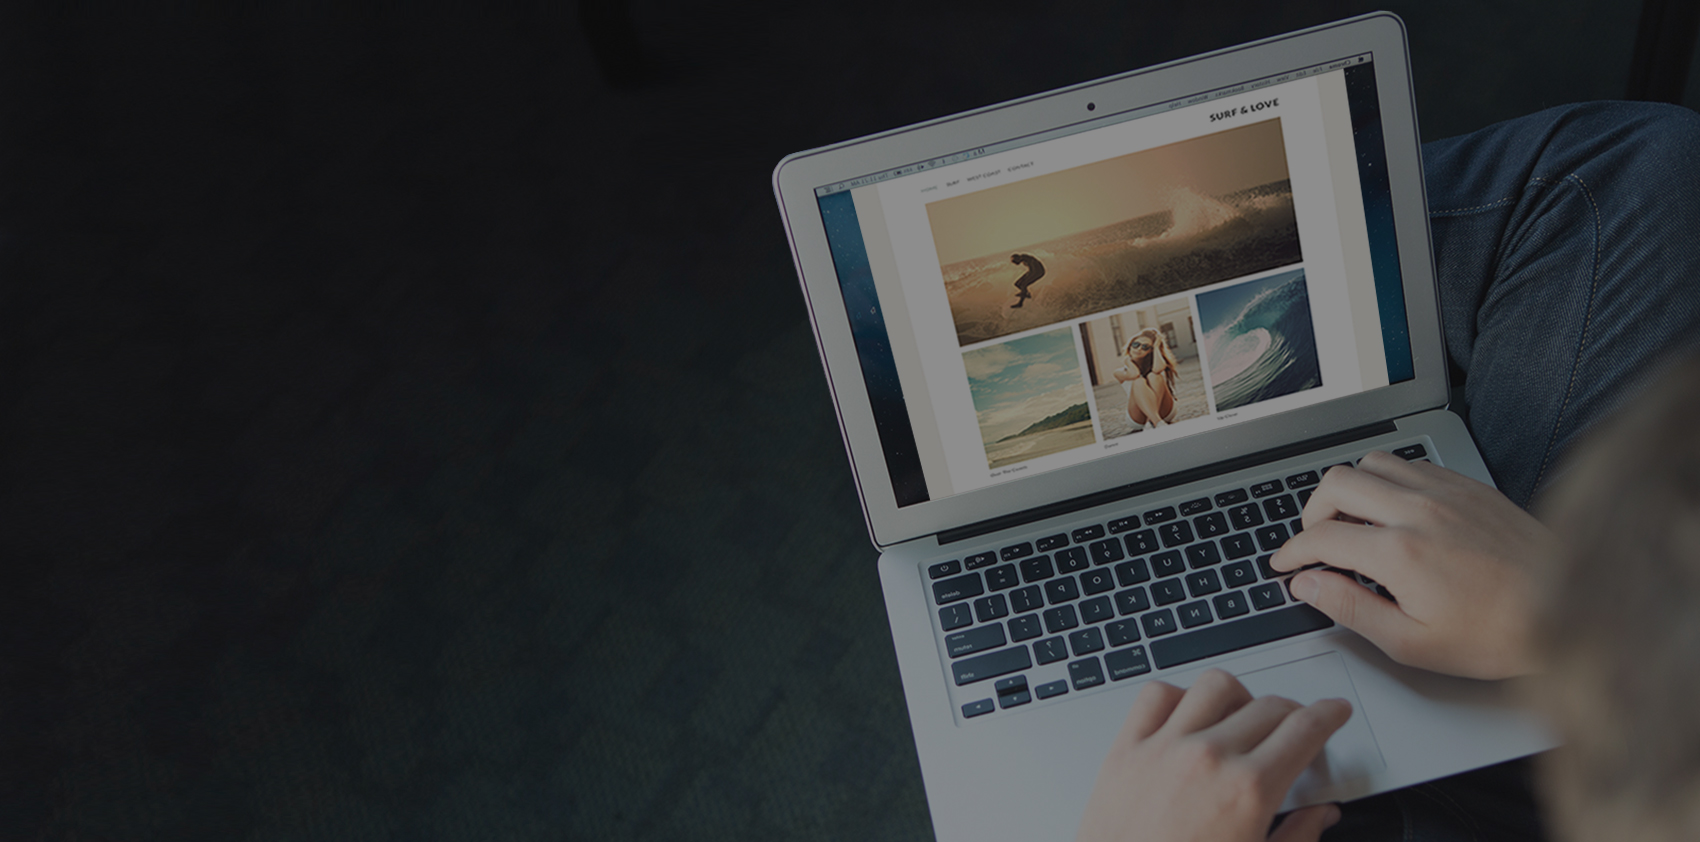
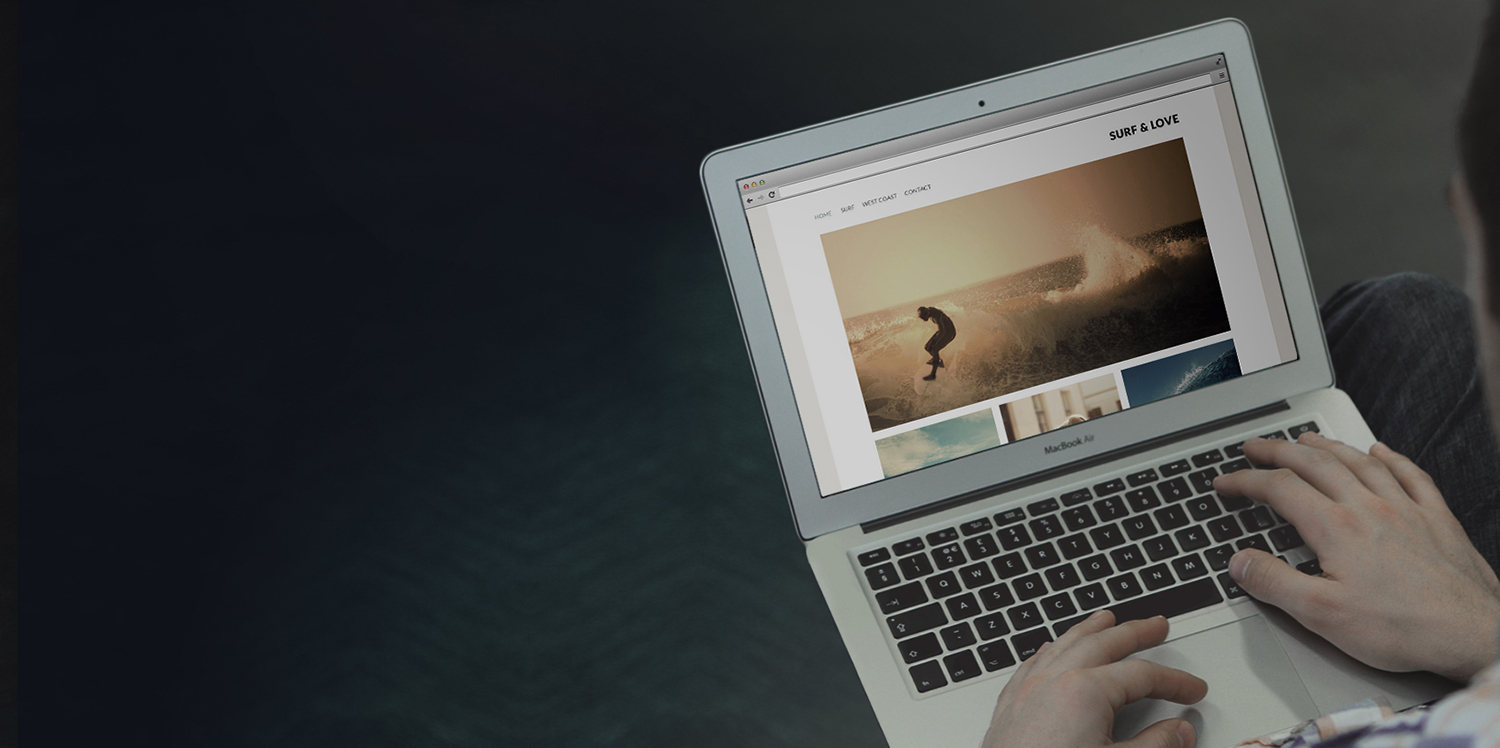
Added signup form overlay styles, fixed FF styling

diff --git a/css/partners.less b/css/partners.less
@@ -153,7 +153,6 @@ section.signup-form {
 				border: 1px solid #e6e6e6;
 				text-indent: 12px;
 				.p-font;
-				color: lighten(@font-swatch5-color,20%)!important;
 
 				&:focus {
 					outline: none;
@@ -183,8 +182,7 @@ section.signup-form {
 			    }
 
 			    select {
-			    	width: 90%;
-			    	height: 50px;
+			    	width: 101%;
 			    	text-indent: 12px;
 				    border: none;
 				    box-shadow: none;
@@ -193,6 +191,7 @@ section.signup-form {
 				    -webkit-appearance: none;
 				    .p-font;
 				    cursor: pointer;
+				    padding: 13px 0;
 
 				    &:focus {
 					    outline: none;
@@ -234,6 +233,24 @@ section.signup-form {
 			}
 		}
 	}
+}
+
+.overlay {
+    position: fixed;
+    display: none;
+    top: 50%;
+    left: 50%;
+    width: 360px;
+    padding: 50px 0;
+    margin-left: -150px;
+    margin-top: -100px;
+    background-color: @color-swatch1;
+    text-align: center;
+    z-index: 10; 
+    outline: 9999px solid rgba(0,0,0,0.5);
+    p {
+    	padding: 10px 0 0;
+    }
 }
 
 

diff --git a/stylesheet.less b/stylesheet.less
@@ -176,7 +176,7 @@ header {
 
 section.feature-bg {
 	display: table;
-	background-image: image('/images/feature-bg.jpg');
+	background-image: image('/images/feature-bg1.jpg');
     background-repeat: no-repeat;
     background-position: top center;
     padding: 0;
@@ -190,7 +190,7 @@ section.feature-bg {
     	.feature-content {
     		display: table-cell;
     		vertical-align: middle;
-    		height: 850px;
+    		height: 750px;
     	}
     }
 
